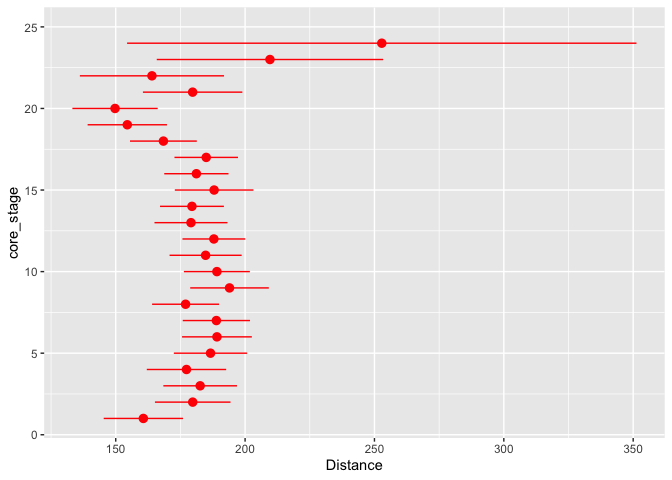
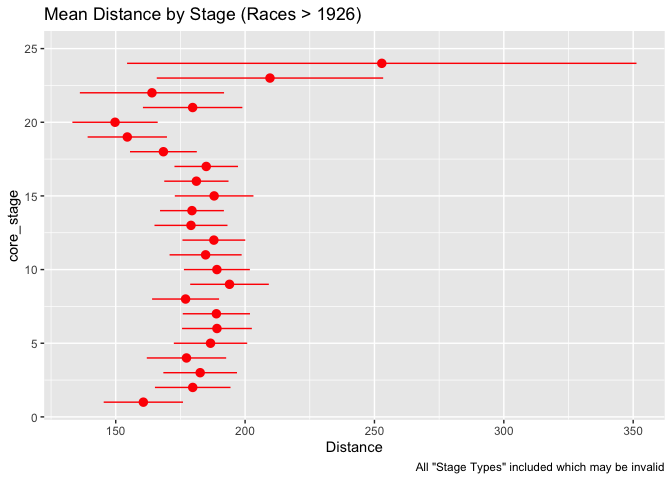
fig update

diff --git a/04-07-2020/tdf_data.md b/04-07-2020/tdf_data.md
@@ -342,7 +342,8 @@ tdf_stages %>%
   stat_summary(fun.data = "mean_se",
                fun.args = list(mult = 2),
                color = "red") +
-  coord_flip() 
+  coord_flip() + labs(title = "Mean Distance by Stage (Races > 1926)",
+                      caption = 'All "Stage Types" included which may be invalid')
 ```
 
 ![](tdf_data_files/figure-gfm/unnamed-chunk-23-1.png)<!-- -->
@@ -374,7 +375,8 @@ tdf_stages %>%
   filter(!str_detect(Type, "trial")) %>% 
   group_by(year, Type) %>% summarise(count = n()) %>% 
   ggplot(mapping = aes(x = year, y = count, fill = Type)) + geom_col() + 
-  coord_flip() + labs(title = "Frequency of Stage Type in a Race by Year")
+  coord_flip() + labs(title = "Frequency of Stage Type in a Race by Year",
+                      caption = "Naming conventions used changed after 2009")
 ```
 
 ![](tdf_data_files/figure-gfm/unnamed-chunk-25-1.png)<!-- -->

diff --git a/README.md b/README.md
@@ -10,3 +10,6 @@
 
 ![this week](11-05-2019/11-05-2019_files/figure-markdown_github/unnamed-chunk-26-1.png)
 
+* **04-07-2020:** TDF data
+
+![this week](04-07-2020/04-07-2020_files/figure-gfb/unnamed-chunk-25-1.png)
